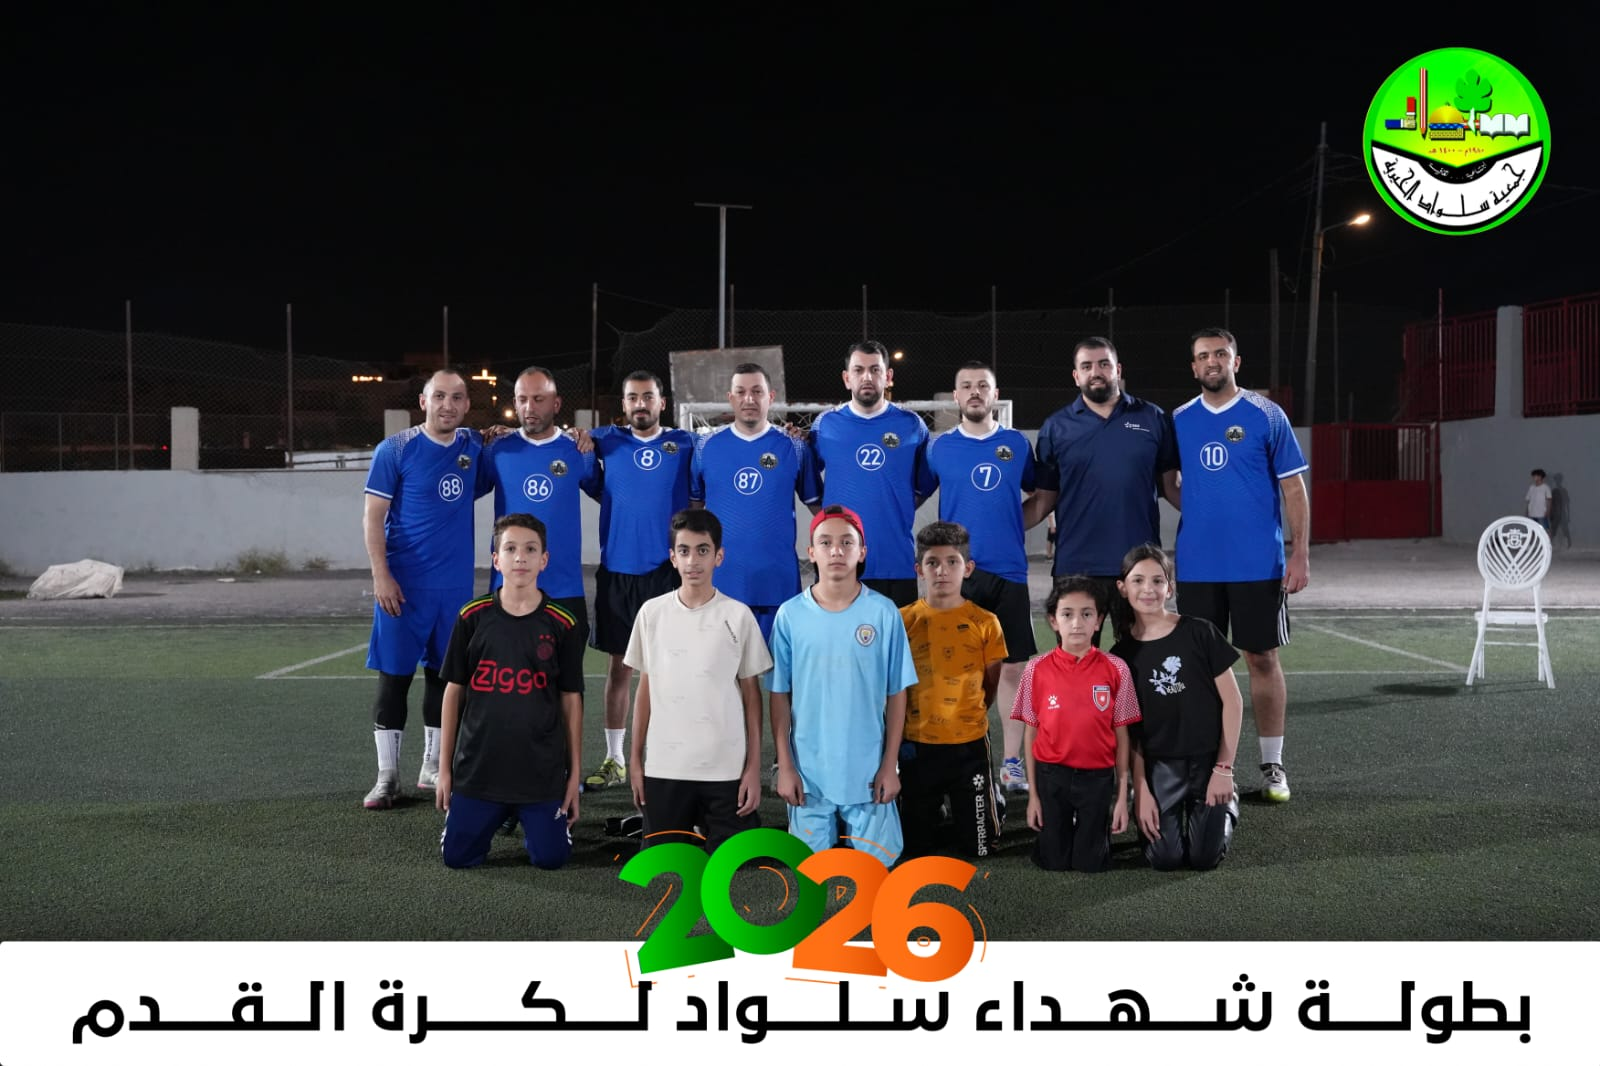
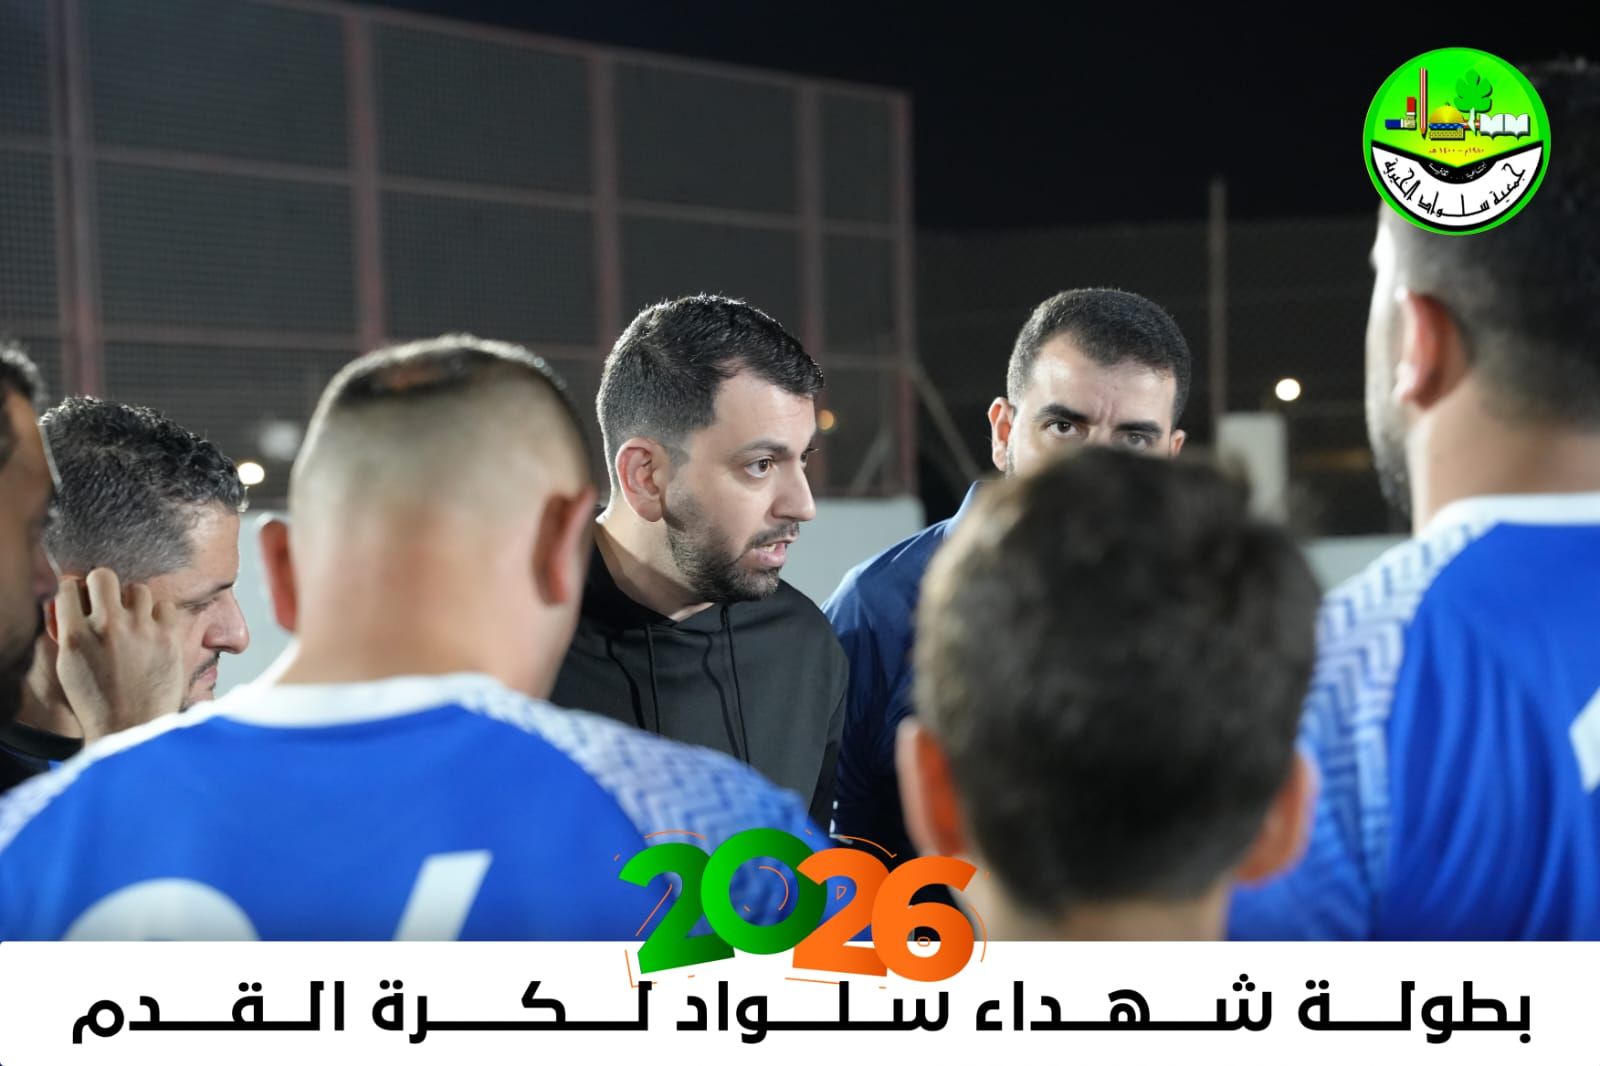
update site

diff --git a/SelwadLeague/wwwroot/css/site.css b/SelwadLeague/wwwroot/css/site.css
@@ -1389,3 +1389,263 @@ footer p {
         grid-template-columns: 1fr;
     }
 }
+
+
+
+
+/* ================= Mobile polish ================= */
+html {
+    -webkit-text-size-adjust: 100%;
+}
+
+body {
+    overflow-x: clip;
+    -webkit-tap-highlight-color: transparent;
+}
+
+img, svg {
+    max-width: 100%;
+}
+
+.hero-content > * {
+    min-width: 0;
+}
+
+/* حواف آمنة للآيفون (النوتش) */
+header {
+    padding-top: env(safe-area-inset-top, 0px);
+}
+
+.wrap {
+    padding-inline: max(18px, env(safe-area-inset-left, 0px), env(safe-area-inset-right, 0px));
+}
+
+footer {
+    padding-bottom: calc(36px + env(safe-area-inset-bottom, 0px));
+}
+
+    footer a {
+        padding: 6px 0;
+    }
+
+.dots button {
+    position: relative;
+}
+
+    .dots button::before {
+        content: "";
+        position: absolute;
+        inset: -12px -4px;
+    }
+/* مساحة ضغط أكبر */
+.rounds button {
+    min-height: 44px;
+}
+
+.team-dialog {
+    max-height: 85vh;
+    max-height: 85dvh;
+}
+
+.td-players {
+    max-height: 60vh;
+    max-height: 60dvh;
+}
+
+    .td-players li {
+        overflow-wrap: anywhere;
+    }
+
+@media (hover: none) {
+    .team-card:hover, .news .card:hover, .btn.primary:hover {
+        transform: none;
+    }
+}
+
+@media (max-width: 760px) {
+    html {
+        scroll-padding-top: 120px;
+    }
+
+    section {
+        padding: 40px 0;
+    }
+
+    .gallery {
+        margin-top: 24px;
+    }
+
+    /* الهيدر */
+    .nav {
+        min-height: 0;
+        padding-top: 8px;
+    }
+
+    .brand-mark {
+        width: 38px;
+        height: 38px;
+        font-size: 18px;
+    }
+
+    .brand strong {
+        font-size: 14px;
+    }
+
+    .menu {
+        gap: 0;
+    }
+
+        .menu a {
+            padding: 11px 12px 9px;
+        }
+
+    /* الهيرو */
+    .hero {
+        padding: 32px 0 80px;
+    }
+
+        .hero::after {
+            height: 40px;
+        }
+
+    .hero-content {
+        gap: 28px;
+    }
+
+    .hero h1 {
+        font-size: clamp(40px, 13vw, 56px);
+        margin-top: 8px;
+    }
+
+    .hero p {
+        font-size: 15px;
+    }
+
+    .actions .btn {
+        flex: 1 1 140px;
+        text-align: center;
+    }
+
+    .next-match .crest {
+        width: 52px;
+        height: 52px;
+        font-size: 20px;
+    }
+
+    .next-match .nm-team {
+        font-size: 14px;
+    }
+
+    /* المباريات */
+    .match {
+        padding: 20px 8px;
+        gap: 6px;
+    }
+
+        .match .crest {
+            width: 52px;
+            height: 52px;
+            font-size: 20px;
+        }
+
+        .match .team {
+            font-size: 14px;
+        }
+
+    .score {
+        min-width: 60px;
+        font-size: 22px;
+        padding: 2px 10px;
+    }
+
+    /* الترتيب */
+    .table {
+        font-size: 12.5px;
+    }
+
+        .table th, .table td {
+            padding: 10px 2px;
+        }
+
+            .table td:first-child, .table th:first-child {
+                padding-inline-start: 10px;
+                min-width: 120px;
+            }
+
+    .pos {
+        width: 24px;
+        height: 24px;
+        margin-inline-end: 8px;
+        font-size: 12px;
+    }
+
+    .table td b {
+        font-size: 15px;
+    }
+
+    .legend {
+        flex-wrap: wrap;
+        gap: 8px 14px;
+        padding: 10px 14px;
+    }
+
+    /* الهدافون */
+    .sc-row strong {
+        overflow-wrap: anywhere;
+        line-height: 1.4;
+    }
+
+    .sc-team {
+        font-size: 12px;
+    }
+
+    .sc-goals {
+        font-size: 18px;
+    }
+
+    /* الفرق */
+    .teams {
+        gap: 12px;
+    }
+
+    .team-card {
+        padding: 16px 10px;
+    }
+
+        .team-card .crest {
+            width: 60px;
+            height: 60px;
+            font-size: 24px;
+        }
+
+        .team-card h3 {
+            font-size: 15px;
+        }
+
+    /* السلايدر */
+    .slide {
+        height: clamp(220px, 62vw, 300px);
+    }
+
+        .slide figcaption span {
+            font-size: 13px;
+        }
+
+    .slider-btn {
+        width: 40px;
+        height: 40px;
+    }
+
+        .slider-btn.next {
+            left: 8px;
+        }
+
+        .slider-btn.prev {
+            right: 8px;
+        }
+
+    /* الفوتر */
+    .foot-grid {
+        gap: 20px;
+    }
+}
